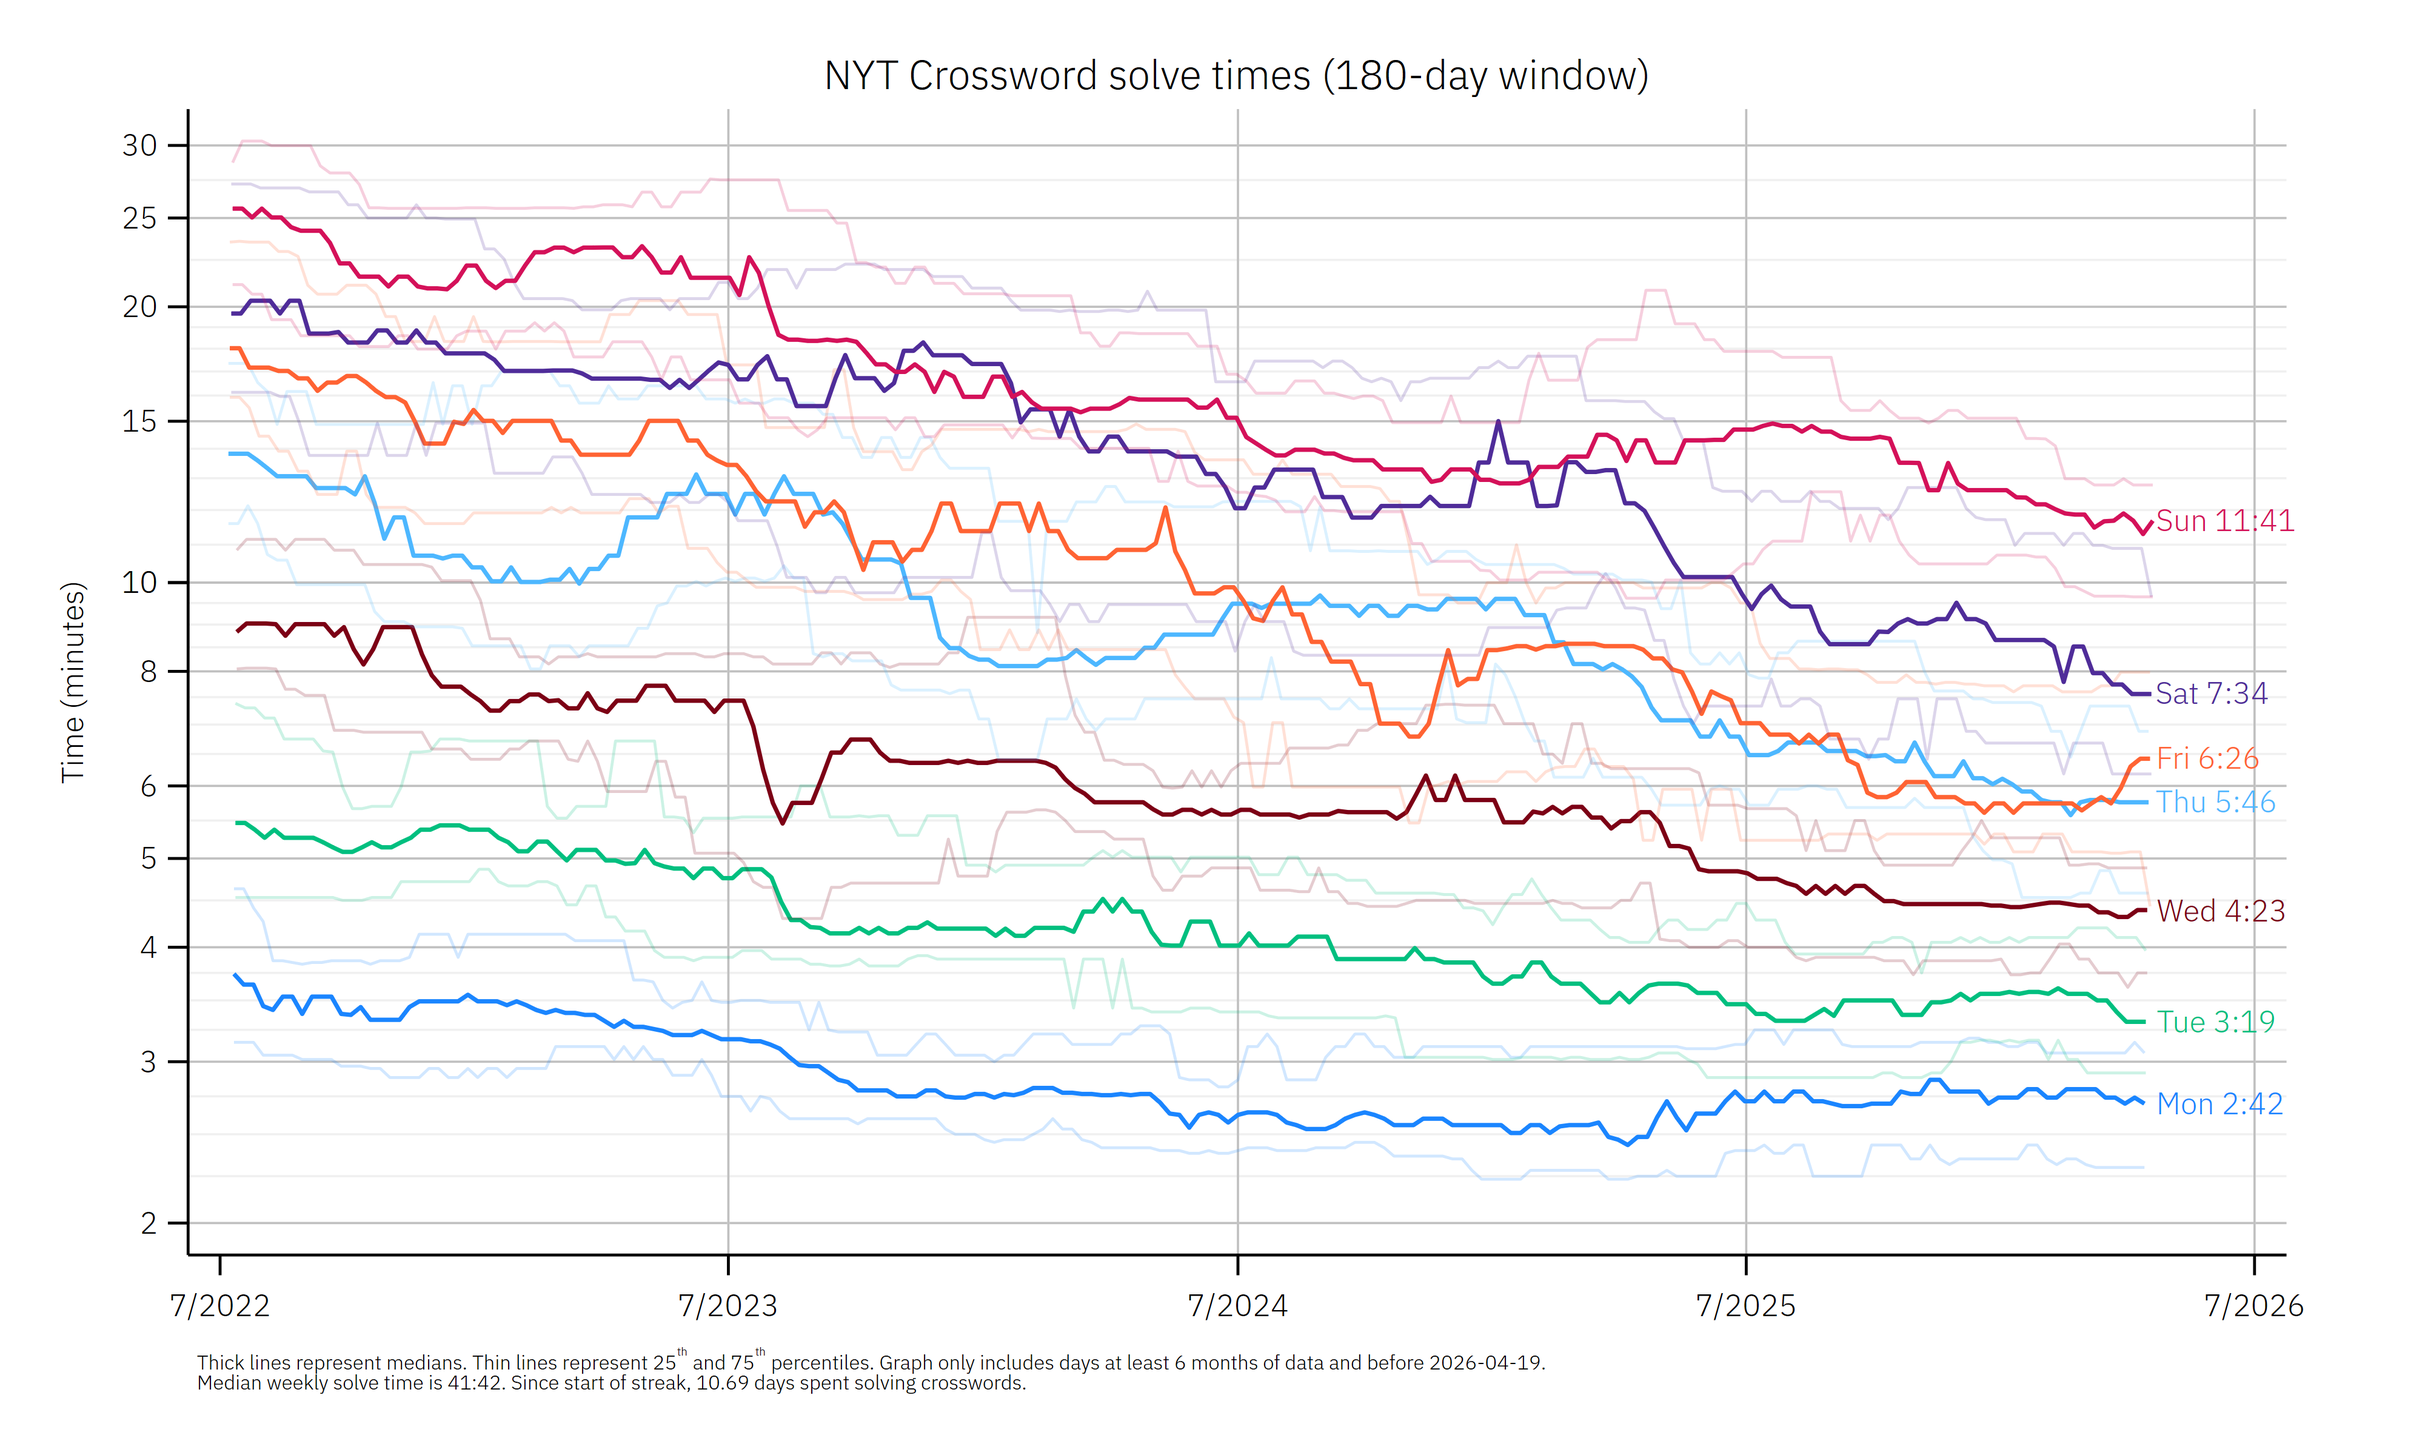
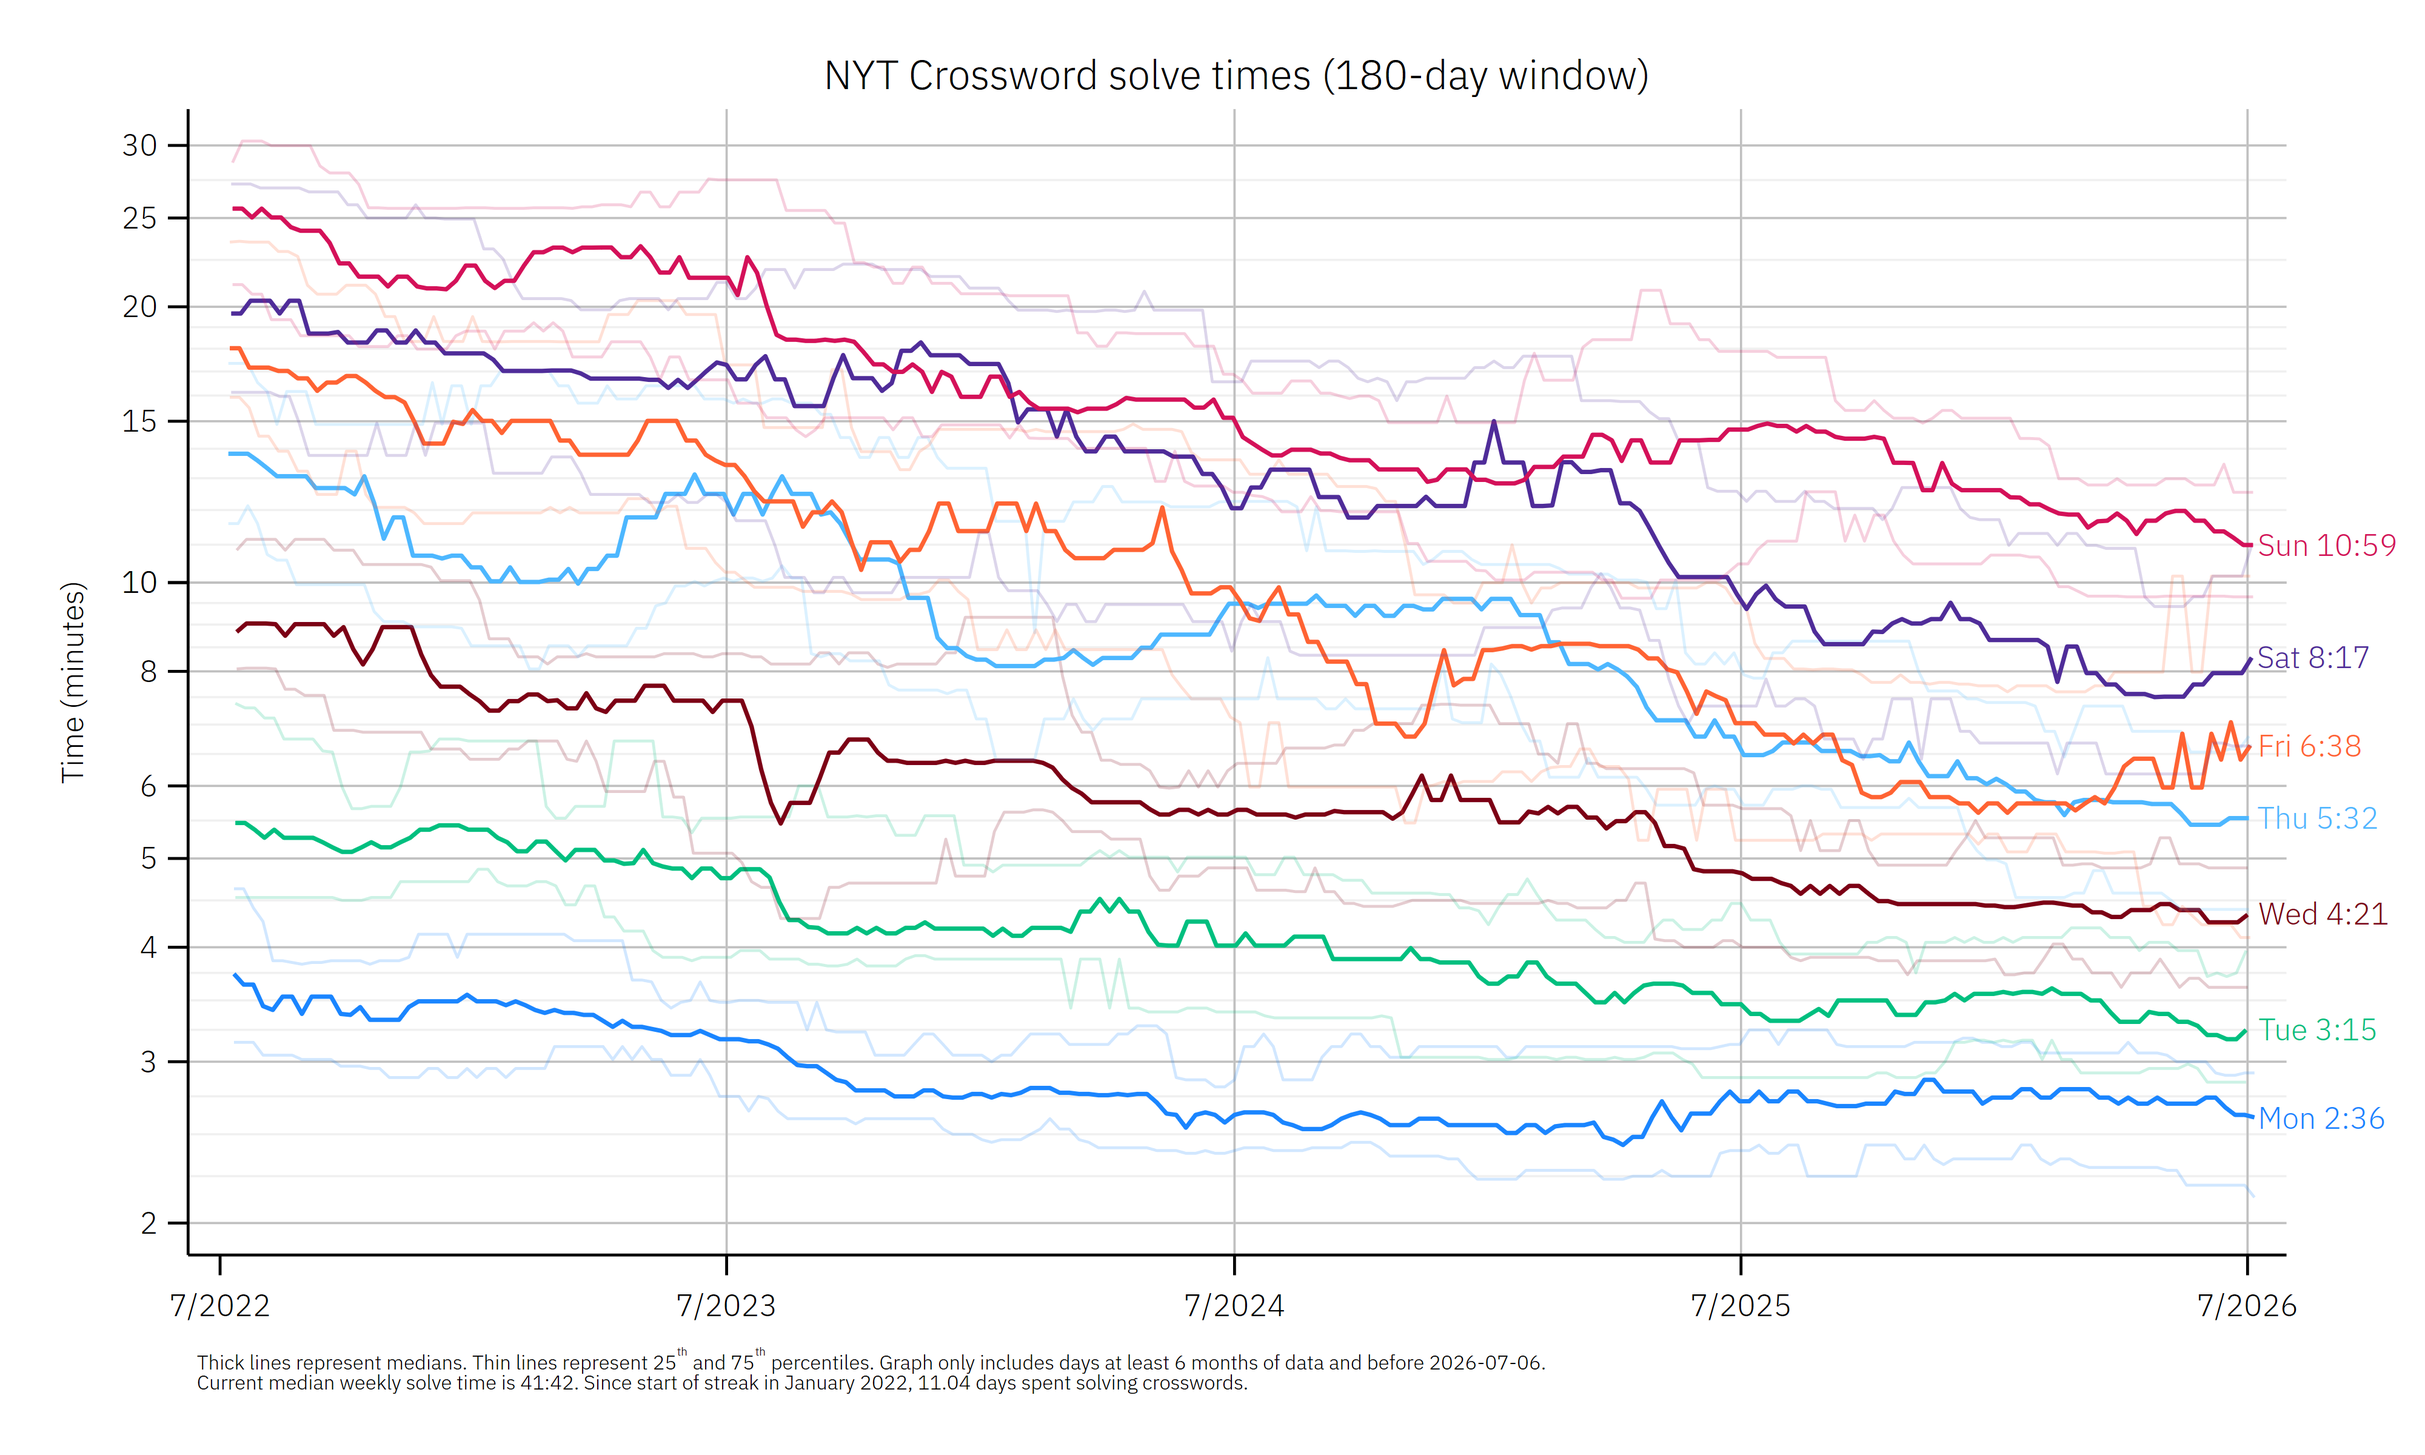
minor updates

diff --git a/index.html b/index.html
@@ -12,10 +12,12 @@ search: false
 ---
 <p><span style="font-size:xxx-large;"><strong>hi! i'm <span style="color:#f47c44;">phi</span></strong>.</span></p>
 
-<p>i'm a phd candidate in <a href={{ site.baseurl }}/economics>economics</a> at mit studying education — specifically, gaps in access, opportunity, and achievement through the lenses of market design, development, and io. my studies are supported by the <a href=https://www.nsfgrfp.org/>nsf grfp</a> and an <a href=https://www.nber.org/programs-projects/projects-and-centers/doctoral-dissertation-fellowships-global-math-talent/doctoral-dissertation-fellowships-global-math-talent-fellows>nber dissertation fellowship</a>. </p>
+<p>i'm a phd candidate in <a href={{ site.baseurl }}/economics>economics</a> at mit studying education — specifically, gaps in access, opportunity, and achievement through the lenses of market design, development, and io. my studies are supported by the <a href=https://www.nsfgrfp.org/>nsf grfp</a> and an <a href=https://www.nber.org/programs-projects/projects-and-centers/doctoral-dissertation-fellowships-global-math-talent/doctoral-dissertation-fellowships-global-math-talent-fellows>nber dissertation fellowship</a>.
 
 <p> my interest in <a href={{ site.baseurl }}/education>education</a> extends beyond research; i enjoy thinking about teaching, pedagogy, and running educational programs. in my spare time, i do too many <a href={{ site.baseurl }}/more>other things</a>, one of which is writing; you can check out my <a href={{ site.baseurl }}/blog>blog</a> for various reflections and musings on my life.</p>
 
 <p>i'd like to think i'm defined by many things beyond those on my <a href={{ site.baseurl }}/cv>cv</a>. in making this site, i hope to share some of those aspects, some of those multitudes i contain. and by putting all these different parts of my person-ness online, maybe you'll find something that brings you use. or a little connection. or maybe even a little joy. </p>
+
+<p>i'm non-binary, and use <a href={{ site.baseurl }}/nb>they/them</a> pronouns.</p>
 
 <p>if you have questions, comments, or thoughts, please <a href="mailto:phiadajar@mit.edu">say hi</a>! (or, just ask away on my <a href={{ site.baseurl }}/iaq>iaq</a> page!)</p>

diff --git a/_pages/education.md b/_pages/education.md
@@ -3,15 +3,15 @@ permalink: /education/
 title: "education"
 ---
 
-Over the past decade, I've grown to care a lot about the field of education. I started off by teaching competition math to elementary and middle school students, which through a series of winding turns, got me much more interested in expanding educational opportunities and educational policy. Of course, I still really, really enjoy teaching, and always try to find outlets to get people excited about things I think are cool c:
+My education work began with teaching competition math to elementary and middle-school students. Many years and winding turns later, I’m now interested in expanding educational opportunities and educational policy. Of course, I still really, really enjoy teaching, and always try to find outlets to get people excited about things I think are cool and interesting c: Some highlights below!
 
 ## teaching
 
+Kaufman Teaching Certificate Program, 2025 ([my syllabus]({{ site.baseurl }}/assets/misc/padajar-ktcp-syllabus.pdf))
+: This program was *so* fun. It was great being back in a setting where people are so focused on good pedagogy, class design, and lecture design. Definitely learned a lot about course design, how to think about assessments, and more. The big “deliverable” of this program is a completely fleshed-out syllabus for a class you might want to teach as a professor. I ended up creating one that aims to bridge the gap to econometric methods and research for undergrads, while simultaneously helping students think about how to have good discourse; you can read it [here]({{ site.baseurl }}/assets/misc/padajar-ktcp-syllabus.pdf). If I end up going down the professor route, would *truly* be excited to make this class happen.
+
 TA for 14.19 (Market Design), 2023
 : My first time teaching as a grad TA! I’d taken 14.19 with Parag in 2019, and really enjoyed being on the other side of one of my favorite classes as an undergrad. I think that with a couple more years of experience, I was much better prepared to be a good TA, being able to provide more context about economics research (including mine), more intuition about why different things worked, and overall had a really great time. Overall rating 6.6/7, and got some fun comments calling me an “absolute legend” who “really helped me learn the subject” 🧡
-
-Kaufman Teaching Certificate Program, 2025
-: This program was *so* fun. It was great being back in a setting where people are so focused on good pedagogy, class design, and lecture design. Definitely learned a lot about course design, how to think about assessments, and more. The big “deliverable” of this program is a completely fleshed-out syllabus for a class you might want to teach as a professor. I ended up creating one that aims to bridge the gap to econometric methods and research for undergrads, while simultaneously helping students think about how to have good discourse; you can read it [here]({{ site.baseurl }}/assets/misc/padajar-ktcp-syllabus.pdf). If I end up going down the professor route, would *truly* be excited to make this class happen.
 
 TA for 14.02 (Principles of Macroeconomics), 2021
 : While macroeconomics isn’t my main field of interest, I think that introductory macro courses have a unique place pedagogically in the economics curriculum, since it’s taken by both students who want to develop macroeconomic literacy and those that are exploring economics as a major. I spent much time thinking about how to be as helpful to students to possible. In subject evaluations, my recitation received a 6.5/7 for “Instructor supported learning”, and some students specifically commented on my intuitive explanations, question-answering, and patience c:
@@ -19,9 +19,11 @@ TA for 14.02 (Principles of Macroeconomics), 2021
 TA for 14.27 (Economics and E-Commerce), 2019
 : This was my first chance to teach economics in a meaningful capacity. At the time I TA’ed, MIT Economics TAs were typically graduate students, and I’ve since learned that me being a TA helped pave the way for the multitude of MEng/undergrad TAs that exist now. While my TAing wasn't perfect (a few mistakes in office hours, imperfect recitation timing), I'd like to think I did a fairly good job in terms of helping students (overall rating 5.5/7). The most fun I had here was getting to design recitations to introduce students to game theory, and creating problems that related to my research.
 
+<!--
+
 Other past teaching
-: * MIT Global Teaching Labs — Italy, 2019. I taught several week-long courses on relativity and statistics to high schoolers in Rozzano! Read more reflections [here](https://espgtl.home.blog/author/paoloadajar/).
-: * Cybermath Academy/Star League Programs — Boston, 2016–2018. I started teaching at these camps in high school; they were my first experience with planning lessons, delivering lectures, and managing classrooms. Importantly, they helped me find my own teaching style (engaging + enthusiastic, empathetic, and using intuition) that I keep today and set me down the path of education.
+: * MIT Global Teaching Labs — Italy, 2019. I taught several week-long courses on relativity and statistics to high schoolers in Rozzano! Read more reflections [here](https://espgtl.home.blog/author/phiadajar/).
+: * Cybermath Academy/Star League Programs — Boston, 2016–2018. I started teaching at these camps in high school; they were my first experience with planning lessons, delivering lectures, and managing classrooms. Importantly, they helped me find my own teaching style (engaging + enthusiastic, empathetic, and using intuition) that I keep today and set me down the path of education. -->
 
 ## things i’ve made
 

diff --git a/_pages/more.md b/_pages/more.md
@@ -9,16 +9,16 @@ interests
 ---------
 
 Dungeons & Dragons
-: Most things I do are incredibly on-brand, and so it’s honestly shocking that I only started playing D&D 2 years ago. I’ve got two PCs in different campaigns: Wella, a Steve Irwin-inspired druid who talks to dinosaurs and is still trying to learn how to trust people, and Myrna, a sorcerer trying to find the nature of magic and the secrets of the definitely-evil, very selective, and highly guarded wizard school (and no, she does *not* have any weird feelings about it because her two best friends got in and she didn’t and she hasn’t talked to them in years).[^1] Also watch a good amount of Critical Role (C2 🧡) and Dimension 20 (Starstruck 🤩), and am dabbling in DMing (i.e., ran a one-shot for some fellow BC GRAs that was entirely based around a dorm-related pun, and now running a short heist campaign for them). 
+: Most things I do are incredibly on-brand, and so it’s honestly shocking that I only started playing D&D 2 years ago. I’ve got two PCs in different campaigns: Wella, a Steve Irwin-inspired druid who talks to dinosaurs and is still trying to learn how to trust people, and Myrna, a sorcerer trying to find the nature of magic and the secrets of the definitely-evil, very selective, and highly guarded wizard school (and no, she does *not* have any weird feelings about it because her two best friends got in and she didn’t and she hasn’t talked to them in years).[^1] Also watch a good amount of Critical Role (C2 🧡) and Dimension 20 (Starstruck 🤩), and have dabbled in DMing, by running a mini-campaign for friends centered entirely around stinky cheese and a terrible, terrible sandwich pun.  
 
 Puzzle Hunts
 : I participate in [Mystery Hunt](https://www.wikiwand.com/en/MIT_Mystery_Hunt) (and many smaller hunts) with NES, a team composed of many former and current residents of Next House (my undergraduate dorm). I do hunts because it’s lovely to spend time with friends thinking about really hard things where you know that there is an answer if you just think hard enough. I’m also getting into puzzle-making more, and have lots of fun writing for [Club Drosselmeyer](https://www.clubdrosselmeyer.com/) and [Cthulhu Luau](https://cthulhu-luau.com/), with hopefully many more puzzles to come!
 
+Theater
+: I love musicals! Favorite ones I’ve seen in-person are Hadestown, Waitress, and Maybe Happy Ending. A few years ago, I started trying out the world of acting in them. My first show was Next Act 2023, *Remembering Her*, where I played Kevin, a wholesome, slightly empty-headed, Prius-driving highschooler who forgets his girlfriend, but eventually remembers (shyeah!). My biggest role to date was Michael in a production of *tick, tick... BOOM!* with KAST, which was an absolute joy. More recently, I’ve started dabbling in interactive theater productions with [Romancing Jan: Love & Labor](https://www.romancingjan.com/live-events) and [The Wedding Party](https://www.secretcityadventures.com/the-wedding-party/boston), and getting to improvise in-character has been such a blast. Here’s to many more shows!
+
 Crosswords
 : In 2022, I finally subscribed to NYT Games and began doing the crossword daily; have since solved far too many crosswords for my own good. Slowly working on bringing down my averages to competition level, and maybe one April I’ll take the train down to [ACPT](https://www.crosswordtournament.com/). My current streak’s been going since January 2022 — and me being me, of course I analyze my data [and put it into pretty graphs]({{ site.baseurl }}/assets/images/xwstats.png). Recently, I also wrote for the [MIT Crossword Open](https://puzzles.mit.edu/crosswordopen/2025/index.html)!
-
-Theater
-: I love musicals! Favorite ones I’ve seen in-person are Hadestown, Waitress, and Maybe Happy Ending. A few years ago, I spent some time acting in them, too. My first show was Next Act 2023, *Remembering Her*, where I played Kevin, a wholesome, slightly empty-headed, Prius-driving highschooler who forgets his girlfriend, but eventually remembers (shyeah!). My biggest role to date was Michael in a production of *tick, tick... BOOM!* with KAST, which was an absolute joy. More recently, I’ve started dabbling in interactive theater productions with [Romancing Jan: Love & Labor](https://www.romancingjan.com/live-events) and [The Wedding Party](https://www.secretcityadventures.com/the-wedding-party/boston), and getting to improvise in-character has been such a blast.
 
 Trivia
 : I’ve always wanted to make it onto Jeopardy. Now that I’m past college-age (and thus only eligible for regular Jeopardy), I’m slowly working on shoring my literature and pop culture knowledge — or at least, that’s what I tell myself I’m doing. Slowly trying to get back into trivia through [LL](https://learnedleague.com/), and we’ll see how it goes. Fingers crossed!
@@ -65,7 +65,7 @@ random things i find useful
 : (just as a concept) keeping a “scratch work” google sheets doc bookmarked for random things
 
 fun games (both daily and one-time)
-: [enclose.horse](https://enclose.horse/)
+: [Uncrossy](https://uncrossy.com/)
 : [Squardle](https://squaredle.app/)
 : [Clues By Sam](https://cluesbysam.com/)
 : [45x45 Connections](https://thomaswc.com/2025.html)
